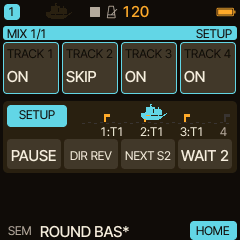
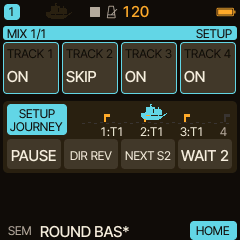
HOME performance view: SETUP chip names the bank, ACTION off keeps the chart and a hint; tutorial screens regenerated

Changed region(s): [[0.0292, 0.4083, 0.2917, 0.5833], [0.2625, 0.4375, 0.2917, 0.4667]]

diff --git a/experiments/home-perf/home_ui.c b/experiments/home-perf/home_ui.c
@@ -455,9 +455,13 @@ static void hp_draw_home(void)
   int ya=y+3,ky=ya+38;
   cv_rrect(3,ya,234,72,5,T_SURF,T_BG);cv_bg=T_SURF;
   {                                                    /* the bank, and the chart */
-   const char*bank=action_setup?"SETUP":action_bank_names[action_bank];
-   cv_rrect(7,ya+4,60,22,4,action_setup?T_ACCENT:T_RAISE,T_SURF);
-   cv_text_in(7,ya+6,60,&AF_S,bank,action_setup?T_INK:T_ACCENT,action_setup?T_ACCENT:T_RAISE);
+   const char*bank=action_bank_names[action_bank];
+   if(action_setup){                                   /* SETUP of which bank: both on the chip */
+    cv_rrect(7,ya+3,60,31,4,T_ACCENT,T_SURF);
+    cv_text_in(7,ya+5,60,&AF_S,"SETUP",T_INK,T_ACCENT);cv_text_in(7,ya+18,60,&AF_S,bank,T_INK,T_ACCENT);
+   }else{
+    cv_rrect(7,ya+4,60,22,4,T_RAISE,T_SURF);cv_text_in(7,ya+6,60,&AF_S,bank,T_ACCENT,T_RAISE);
+   }
    hp_sea(ya+2);
   }
   #if FELUCCA_RANDOM_MORPH
@@ -482,6 +486,12 @@ static void hp_draw_home(void)
    cv_text_in(kx,ky+(30-(f==&AF_M?15:12))/2,54,f,label,T_TEXT,T_RAISE);
   }
  }
+  else{                                                /* ACTION off: the chart stays as the status, the hint says how to switch it on */
+   cv_rrect(3,y+3,234,38,5,T_SURF,T_BG);cv_bg=T_SURF;
+   cv_rrect(7,y+7,60,22,4,T_RAISE,T_SURF);cv_text_in(7,y+9,60,&AF_S,"ACTION",T_MID,T_RAISE);
+   hp_sea(y+5);
+   cv_free_text(5,y+44,&AF_S,ui.msg_t?ui.msg:"SEL:ROW ALGO:TRACK HOME x2:ACTION",ui.msg_t?T_ACCENT:T_MID,T_BG,230);
+  }
 #endif
  {                                                     /* the common footer: engine, preset (the partner's and the morph for a pair member), page */
   int fy=198;sound_name(TSEL,preset);cv_bg=T_BG;
